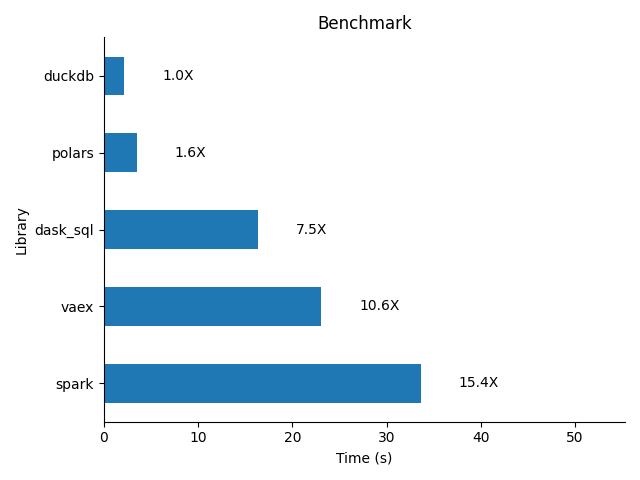
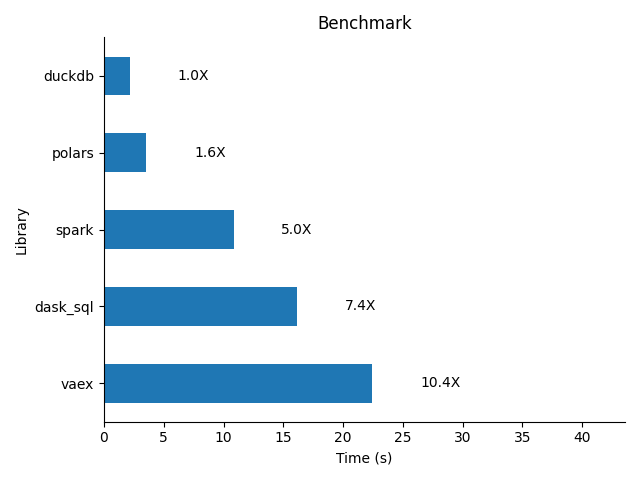
Allow spark to use all cores

diff --git a/src/medium_data_bakeoff/ingredients/spark.py b/src/medium_data_bakeoff/ingredients/spark.py
@@ -5,7 +5,7 @@ from pyspark.sql import SparkSession
 
 
 def bake(dataset: str) -> float:
-    spark = SparkSession.builder.master("local").getOrCreate()
+    spark = SparkSession.builder.master("local[*]").getOrCreate()
     paths = glob.glob(dataset)
     start = time.time()
     df = spark.read.parquet(*paths)
